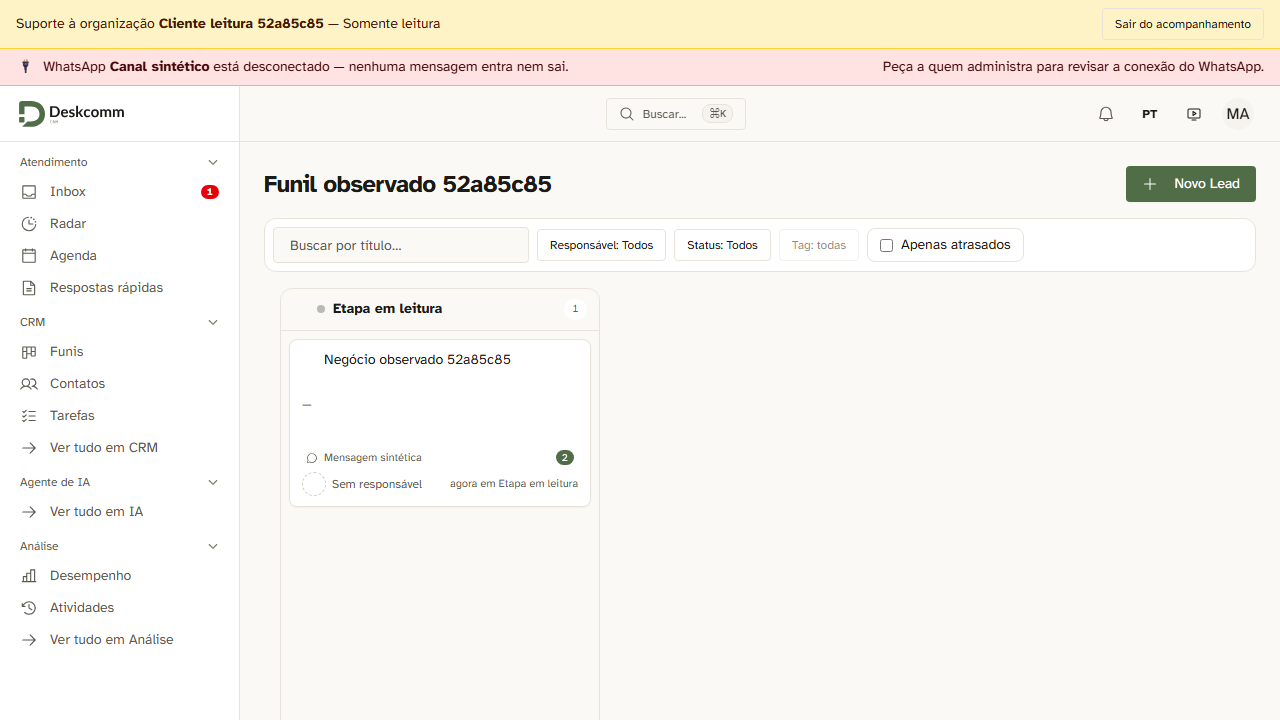
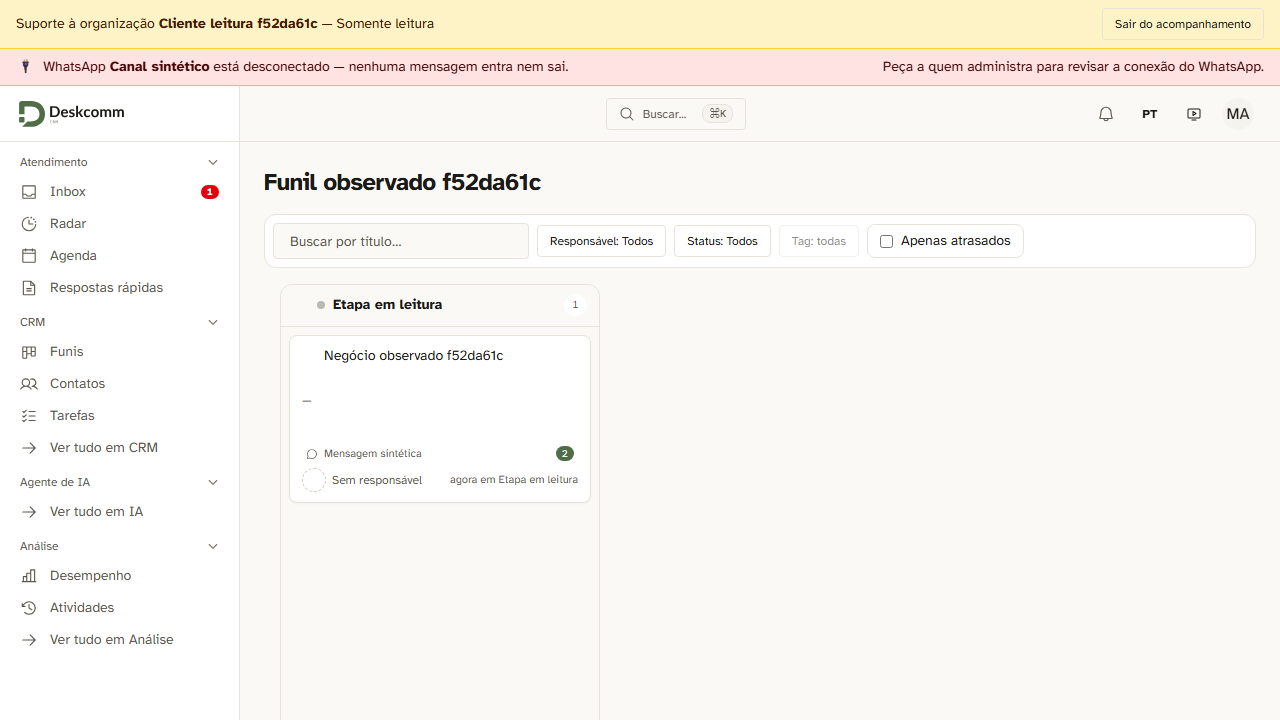
test(auth): registre prova final do acompanhamento somente leitura

diff --git a/docs/HANDOFF-manager-principal-leitura.md b/docs/HANDOFF-manager-principal-leitura.md
@@ -99,3 +99,52 @@ lockfile congelado. Script local fora do repo: ../manager-principal-linux-qa.sh.
 Não enfraquecer nem pular gates com base no resultado Windows.
 
 Rebuild e novo E2E ainda necessários após os ajustes de interface acima.
+
+## Validação após Docker ligado (19/10)
+
+- Banco descartável pg15: 37 casos em quatro arquivos passaram, incluindo os 13
+  novos casos de autorização, revogação e isolamento. Instalação/reaplicação e
+  três verificações do kit passaram com 167 policies.
+- Checkpoint local 8e4a5ba38 (sem push) corrige quatro cercas: regra central de
+  organização operante, consulta global fora da página tenant, rounded-md e
+  migration 9006 ANTES da varredura anon final. Rodada focada: 58/58.
+- Helper de apresentação tem oito casos passando; consulta falha fechada sem
+  derrubar página nem conceder acesso. Tradução e referência das capturas: 90/90.
+- Suíte ampla em Linux sobre checkpoint anterior foi interrompida após preservar
+  log ../manager-principal-linux-unit-parcial.log. NÃO é aprovação completa.
+  Falhas próprias identificadas foram corrigidas e revalidadas de forma focada.
+  Controle de conversão Meta executado na base be200a4c5 em /baseline descartável:
+  mesmo caso falha (expected ok, received skipped), 19 passam. Prova preservada
+  em ../manager-principal-meta-baseline.log. Não foi alterado esse código/teste.
+- Container crm-manager-qa-20261019 tem ambiente QA sem segredos. Imagem local de
+  reaproveitamento crm-manager-qa-local:20261019; nunca publicar. Script seguinte
+  ../manager-principal-linux-ui.sh valida URL local 55421 antes de build/E2E.
+- Ainda faltam build/typecheck final, E2E da interface final e suíte completa.
+  Capturas atuais são intermediárias e explicitamente documentadas assim.
+- Produção, VPS, Supabase Cloud e clientes não foram alterados.
+
+Tentativa Linux de build interrompida por pressão comprovada do limite de memória
+do próprio contêiner (memory.events max=1455137, sem OOM kill). Não é falha de
+código nem prova sobre produção. Contêiner UI parado para liberar recursos.
+Log: ../manager-principal-linux-ui-build-incompleto.log. Rebuild nativo Windows
+iniciado com e2e-build.sh canônico, Node heap 8GB, guarda de URL exata local 55421;
+log em ../manager-principal-e2e-build-final.log. Não repetir em paralelo.
+
+### Resultado final da prova de tela (19/10, 13h48 BRT)
+
+Build nativo final aprovado (compilação 86s, TypeScript 50s, 65 páginas e controle
+positivo do host 127.0.0.1:55421 no bundle). Cenário manager E2E APROVADO em 35,5s
+(rodada 52s): Inbox/mensagem lidos, não lidas=2 preservado, POST mark-read 403,
+admin 403, funil sem Novo Lead/drag, saída e manager cliente sem porta/API 403.
+Capturas finais substituídas e inspecionadas visualmente; só dados sintéticos.
+
+Fixture Principal f9060000-0000-4000-8000-000000000003 tinha zero memberships:
+ponteiro local retornado a NULL (estado anterior) e somente essa org removida.
+Contêineres crm-manager-ui-20261019 e crm-manager-qa-20261019 e imagem
+crm-manager-qa-local:20261019 removidos após guardar logs. São reproduzíveis pelos
+bundles/scripts locais; nenhum outro contêiner ou banco foi removido/reiniciado.
+
+Typecheck dedicado final APROVADO (exit 0, sem diagnósticos), log
+../manager-principal-typecheck-final.log.
+Rodada ampla NÃO aprovada. Falha Meta também reproduzida na base; não enfraquecer
+o gate nem misturar sua correção sem revisão. Tudo local, sem push/PR/deploy.

diff --git a/docs/specs/acompanhamento-manager-principal.md b/docs/specs/acompanhamento-manager-principal.md
@@ -31,17 +31,19 @@ escritas diretas recusadas; revogação imediata; Inbox sem marcar lida; funil s
 Destino: núcleo (autorização e isolamento). Nenhuma extensão ou serviço pago novo.
 Sem publicação ou alteração de produção nesta etapa.
 
-## Evidência local em revisão
+## Evidência local validada
 
 Capturas com dados exclusivamente sintéticos, sem informações de clientes:
 
 - `evidence/manager-principal/inbox-somente-leitura.png`:
   mensagem carregada com contador de não lidas preservado.
 - `evidence/manager-principal/funis-somente-leitura.png`:
-  captura intermediária que expôs controles de criação ainda visíveis. A interface
-  foi corrigida; falta substituir pela prova visual da versão final.
+  funil e lead consultáveis sem Novo Lead, seleção ou arrasto de cards.
 
-Estas capturas não comprovam implantação nem conclusão da validação completa.
+E2E canônico em 19/10: cenário do manager aprovado (35,5s; rodada 52s).
+Também confirmou recusa HTTP 403 para marcar lida e administração, saída do
+acompanhamento e ausência da porta para manager de cliente. Build final passou.
+Estas capturas não comprovam implantação nem aprovação da suíte geral completa.
 
 ## Checklist do Sistema Vivo
 
